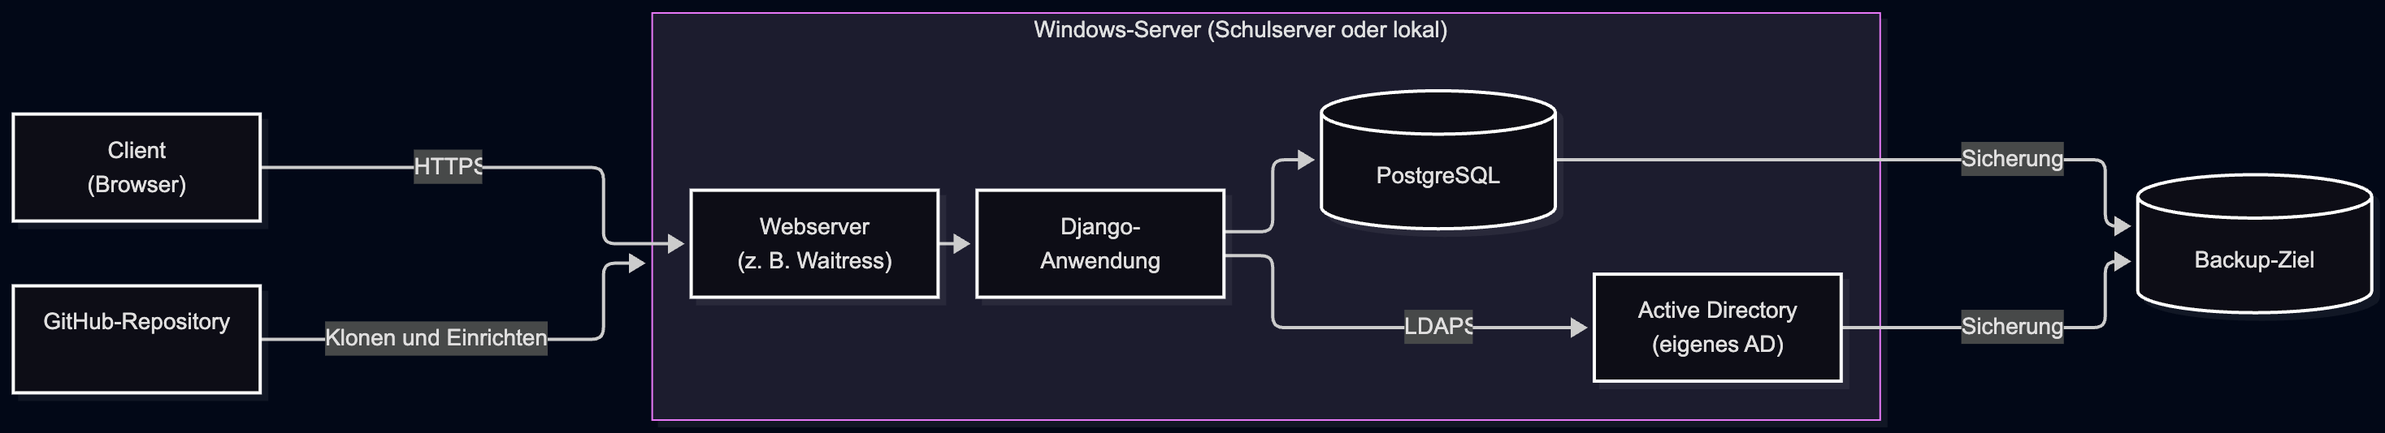
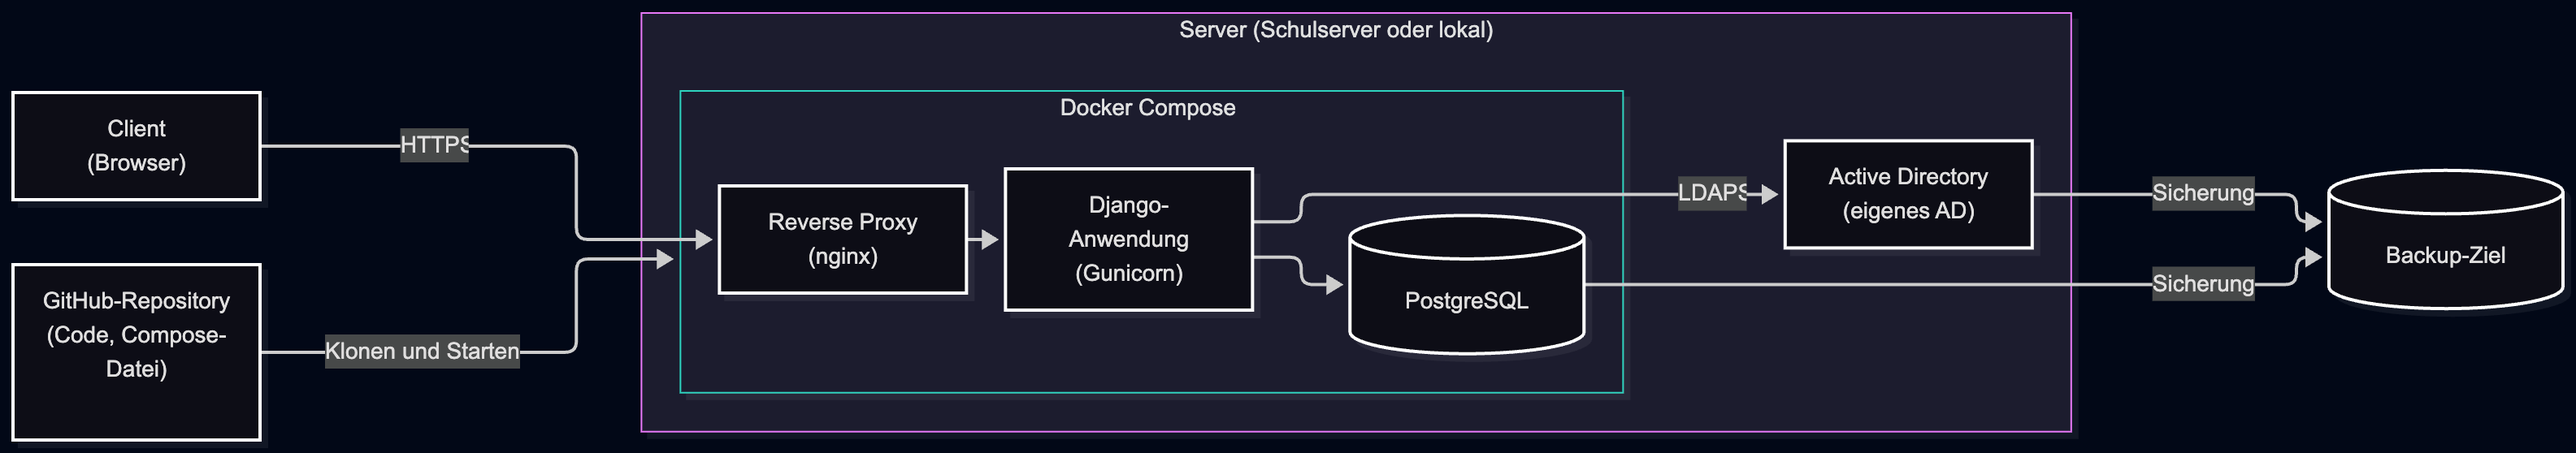
v2

diff --git a/Personen/Kumar/vorfeldanalyse.tex b/Personen/Kumar/vorfeldanalyse.tex
@@ -6,11 +6,12 @@
  
 \subsection{Anforderungen an die Infrastruktur}
  
-Die Lernplattform wird von Lernenden einer Schule benutzt. Meistens sind nur wenige Personen gleichzeitig online. Vor Schularbeiten, Tests und Abgaben sind es aber viel mehr. Die Infrastruktur muss auch diese Spitzen aushalten. Aus dem Projektantrag und den Rahmenbedingungen ergeben sich diese Anforderungen:
+Die Lernplattform wird von Lernenden einer Schule benutzt. Meistens sind nur wenige Personen gleichzeitig online. Vor Schularbeiten, Tests und Abgaben sind es aber viel mehr (Eig.)\footnote{„Eig.“ kennzeichnet in diesem Kapitel eigene Einschätzungen ohne gesonderten Quellenbeleg.}. Die Infrastruktur muss auch diese Spitzen aushalten. Aus dem Projektantrag und den Rahmenbedingungen ergeben sich diese Anforderungen:
  
 \begin{itemize}
-  \item Die Plattform läuft auf einem Windows-Server der Schule. Wenn die Schule keinen Server bereitstellen kann, läuft sie lokal auf einem eigenen Rechner.
+  \item Die Plattform läuft auf einem Server der Schule. Wenn die Schule keinen Server bereitstellen kann, läuft sie lokal auf einem eigenen Rechner.
   \item Die Serverumgebung lässt sich jederzeit gleich neu aufbauen und bei Bedarf vergrößern.
+  \item Die Struktur der Datenbank wird konzipiert und definiert, das heißt, welche Daten es gibt und wie sie zusammenhängen.
   \item Eine relationale Datenbank ist angebunden und arbeitet zuverlässig mit dem Backend zusammen.
   \item Die Anmeldung läuft zentral über ein Active Directory. Weil die Schule keinen Zugriff auf ihr eigenes Active Directory gibt, wird dafür ein eigenes eingerichtet.
   \item Lerninhalte können strukturiert importiert und exportiert werden.
@@ -21,7 +22,7 @@ Die Lernplattform wird von Lernenden einer Schule benutzt. Meistens sind nur wen
 \subsection{Abgrenzung zu Backend und Frontend}
  
 Das Gesamtprojekt besteht aus Backend, Frontend und Infrastruktur. Die Infrastruktur stellt die Umgebung bereit, in der Backend und Frontend laufen. \Luca entwickelt die Backend-Logik, den adaptiven Lernalgorithmus und die API. \Jakob entwickelt die Benutzeroberfläche. \\ \\
-Bei der Anmeldung über das Active Directory sind die Aufgaben so aufgeteilt: Die Einstellungen im Django-Backend gehören zum Backend. Die Infrastruktur liefert den Verzeichnisdienst, die Netzwerkverbindung, die Zertifikate und Testkonten. Bei der Datenbank gehören die Tabellen und Migrationen zum Backend. Der Betrieb des Datenbankservers, die Backups und die Verfügbarkeit gehören zur Infrastruktur. Die genauen Schnittstellen werden im Infrastrukturkonzept festgehalten (Meilenstein am 15.11.2026).
+Bei der Anmeldung über das Active Directory sind die Aufgaben so aufgeteilt: Die Einstellungen im Django-Backend gehören zum Backend. Die Infrastruktur liefert das Verzeichnis, die Netzwerkverbindung, die Zertifikate und Testkonten. Bei der Datenbank legt die Infrastruktur die Struktur fest, also Tabellen, Beziehungen und Regeln. Die Umsetzung im Backend, also die Django-Modelle und Migrationen, gehört zu \Luca. Der Betrieb des Datenbankservers, die Backups und die Verfügbarkeit gehören ebenfalls zur Infrastruktur. Die genauen Schnittstellen werden im Infrastrukturkonzept festgehalten (Meilenstein am 15.11.2026).
  
  
 \section{Begrifflichkeiten}
@@ -30,19 +31,18 @@ Bei der Anmeldung über das Active Directory sind die Aufgaben so aufgeteilt: Di
 \begin{tabular}{|p{4.2cm}|p{9.5cm}|}
 \hline
 \textbf{Begriff} & \textbf{Erklärung} \\ \hline
-Active Directory (AD) & Verzeichnisdienst von Microsoft, der Benutzer:innen, Gruppen und Geräte in einem Netzwerk verwaltet \\ \hline
-Domänencontroller (DC) & Windows-Server, auf dem das Active Directory läuft und der Anmeldungen prüft \\ \hline
+Active Directory (AD) & Verzeichnisdienst von Microsoft, der Benutzer:innen und Gruppen in einem Netzwerk verwaltet \\ \hline
 LDAP / LDAPS & Protokoll, mit dem man ein Verzeichnis abfragen und Anmeldungen prüfen kann. LDAPS ist die verschlüsselte Version \\ \hline
+Container & Eine Art Paket, in dem eine Anwendung mit allem läuft, was sie braucht \\ \hline
+Docker Compose & Programm, mit dem man mehrere Container gemeinsam beschreibt und mit einem Befehl startet \\ \hline
 Git / Repository & Versionsverwaltung für Dateien. Im Repository liegen der Code und die Konfigurationen, hier auf GitHub \\ \hline
-Windows-Dienst & Programm, das im Hintergrund läuft, automatisch startet und bei Fehlern neu gestartet werden kann \\ \hline
-Infrastructure as Code (IaC) & Die Einrichtung eines Servers steht in Dateien statt in Handarbeit \\ \hline
-Reverse Proxy / Load Balancer & Server vor der Anwendung, der Anfragen annimmt und auf mehrere Instanzen verteilt \\ \hline
+Reverse Proxy & Server vor der Anwendung, der Anfragen annimmt und an die Anwendung weiterleitet \\ \hline
 Horizontale / vertikale Skalierung & Mehr Instanzen starten bzw. einen stärkeren Server verwenden \\ \hline
-ACID & Eigenschaften, die Datenbanktransaktionen zuverlässig machen \\ \hline
-WAL / PITR & Protokoll der Datenbankänderungen bzw. Wiederherstellung auf einen bestimmten Zeitpunkt \\ \hline
-RPO / RTO & Wie viele Daten höchstens verloren gehen dürfen bzw. wie lange eine Wiederherstellung höchstens dauern darf \\ \hline
-Failover & Umschalten auf ein Ersatzsystem, wenn das erste ausfällt \\ \hline
-Idempotenz & Eine Aktion mehrmals auszuführen ergibt dasselbe wie sie einmal auszuführen \\ \hline
+Primärschlüssel / Fremdschlüssel & Der Primärschlüssel kennzeichnet eine Zeile in einer Tabelle eindeutig. Ein Fremdschlüssel verweist auf eine Zeile in einer anderen Tabelle \\ \hline
+ER-Diagramm & Zeichnung der Datenbank mit Tabellen (Entitäten) und ihren Beziehungen \\ \hline
+Migration & Beschreibung einer Änderung an der Datenbankstruktur, die sich in Django automatisch ausführen lässt \\ \hline
+Transaktion & Mehrere Datenbankänderungen, die entweder ganz oder gar nicht ausgeführt werden \\ \hline
+Backup & Sicherungskopie der Daten, aus der man sie wiederherstellen kann \\ \hline
 Lasttest / Stresstest & Test mit erwarteter Last bzw. mit mehr Last, als das System aushalten soll \\ \hline
 DSGVO & Datenschutz-Grundverordnung der EU \\ \hline
 \end{tabular}
@@ -50,18 +50,17 @@ DSGVO & Datenschutz-Grundverordnung der EU \\ \hline
  
 \section{Serverinfrastruktur und Datenbank}
  
-\subsection{Reproduzierbarkeit und Git-Repository}
+\subsection{Reproduzierbarkeit und Container}
  
-Reproduzierbar heißt, dass sich die ganze Serverumgebung jederzeit aus einer Beschreibung neu aufbauen lässt. Dahinter steckt die Idee „Infrastructure as Code“. Die Einstellungen werden nicht von Hand am Server gemacht, sondern stehen in Dateien, die versioniert werden. So kann man jede Änderung nachvollziehen, und der Server kann bei einem Problem einfach neu erstellt werden. \\
-Häufig werden dafür Container wie Docker verwendet. Ein Container enthält die Anwendung und alles, was sie zum Laufen braucht. In diesem Projekt wird bewusst darauf verzichtet. Die Anwendung läuft direkt auf dem Windows-Server. Ein einzelner Server braucht dadurch weniger Ressourcen, und es gibt eine Schicht weniger, die eingerichtet und verstanden werden muss. Auf Windows läuft Docker meist über eine zusätzliche virtuelle Schicht, die Speicher und Rechenleistung kostet. Auch Kubernetes ist wegen des hohen Aufwands für ein Projekt dieser Größe nicht sinnvoll. \\
-Die Reproduzierbarkeit wird stattdessen über ein Git-Repository auf GitHub erreicht. Dort liegen der Code, die Konfigurationsvorlagen, die festgelegten Paketversionen und eine Installationsanleitung. Die Anwendung kann damit beliebig oft auf einen neuen Server geklont und eingerichtet werden. Geheime Daten wie Passwörter liegen nicht im Repository, sondern in Umgebungsvariablen auf dem Server. Wichtig ist, dass der Neuaufbau getestet wird, zum Beispiel auf einem frischen System. Nur dann ist belegt, dass die Beschreibung vollständig ist.
+Reproduzierbar heißt, dass sich die ganze Serverumgebung jederzeit aus einer Beschreibung neu aufbauen lässt. Die Einstellungen werden nicht von Hand am Server gemacht, sondern stehen in Dateien, die versioniert werden. So kann man jede Änderung nachvollziehen, und der Server kann bei einem Problem einfach neu erstellt werden. \\
+Dafür werden Container mit Docker verwendet. Ein Container enthält die Anwendung und alles, was sie zum Laufen braucht. Dadurch läuft sie überall gleich. Mit Docker Compose werden mehrere Container gemeinsam beschrieben und mit einem Befehl gestartet. Bei uns sind das zum Beispiel der Reverse Proxy, die Django-Anwendung und die Datenbank. Die Beschreibung liegt zusammen mit dem Code in einem Git-Repository auf GitHub. Die Anwendung kann damit auf einem neuen Server geklont und gestartet werden. Geheime Daten wie Passwörter liegen nicht im Repository, sondern in Umgebungsvariablen. Es gibt auch größere Werkzeuge wie Kubernetes. Sie bringen aber viel Aufwand mit und sind für ein Projekt dieser Größe nicht nötig (Eig.).
  
  
-\subsection{Skalierbarkeit und Webserver}
+\subsection{Skalierbarkeit und Reverse Proxy}
  
-Skalierbar heißt, dass das System auch mit mehr Benutzer:innen gut funktioniert. Es gibt zwei Wege. Bei der vertikalen Skalierung bekommt der Server stärkere Hardware. Bei der horizontalen Skalierung laufen mehrere Instanzen der Anwendung, zum Beispiel auf weiteren Servern, auf die das Repository geklont wird. Dafür dürfen die Instanzen keine Daten bei sich selbst speichern, sie müssen zustandslos sein. Sitzungen und Dateien liegen dann in der Datenbank, in einem gemeinsamen Cache oder in einem gemeinsamen Speicher \parencite[Kap.~1 und 5]{kleppmann2017}.
-Bei mehreren Instanzen verteilt ein Reverse Proxy oder Load Balancer die Anfragen. Er kümmert sich auch um die verschlüsselte Verbindung (TLS). Für den Start genügt eine einzelne Instanz, die so gebaut ist, dass später weitere dazukommen können. Django läuft im Betrieb nicht mit dem eingebauten Testserver, sondern mit einem Produktionsserver. Gunicorn, das oft verwendet wird, läuft nicht auf Windows. Dort wird deshalb ein Server verwendet, der Windows unterstützt, zum Beispiel Waitress. Die Anwendung wird als Windows-Dienst eingerichtet, damit sie automatisch startet und bei einem Fehler neu gestartet wird. \\
-Daraus ergibt sich der Aufbau in Schichten: Browser, Webserver mit Django-Anwendung und Datenbank. Dazu kommen das eigene Active Directory und die Orte, an denen die Backups liegen (siehe Abbildung~\ref{fig:architektur}).
+Skalierbar heißt, dass das System auch mit mehr Benutzer:innen gut funktioniert. Es gibt zwei Wege. Bei der vertikalen Skalierung bekommt der Server stärkere Hardware. Bei der horizontalen Skalierung laufen mehrere Instanzen der Anwendung. Dafür dürfen die Instanzen keine Daten bei sich selbst speichern, sie müssen zustandslos sein. Sitzungen und Dateien liegen dann in der Datenbank, in einem gemeinsamen Cache oder in einem gemeinsamen Speicher \parencite[Kap.~1 und 5]{kleppmann2017}.
+Vor den Instanzen steht ein Reverse Proxy, zum Beispiel nginx. Er nimmt die Anfragen an, kümmert sich um die verschlüsselte Verbindung (TLS) und leitet sie an die Anwendung weiter. Laufen mehrere Instanzen, verteilt er die Anfragen auf sie. Django läuft im Betrieb nicht mit dem eingebauten Testserver, sondern mit einem Produktionsserver wie Gunicorn. \\
+Daraus ergibt sich der Aufbau in Schichten: Browser, Reverse Proxy, Django-Anwendung und Datenbank. Dazu kommen das eigene Active Directory und die Orte, an denen die Backups liegen (siehe Abbildung~\ref{fig:architektur}).
 \begin{figure}[htbp]
   \centering
   \includegraphics[width=\textwidth,height=0.45\textheight,keepaspectratio]{Bilder/Kumar/Architekturübersicht.png}
@@ -71,29 +70,89 @@ Daraus ergibt sich der Aufbau in Schichten: Browser, Webserver mit Django-Anwend
  
 \subsection{Relationale Datenbank}
  
-Die Plattform speichert viele Daten, die zusammenhängen: Benutzer:innen, Lerninhalte, Lernkarten, Tests, Ergebnisse und Wiederholungstermine. Dafür passt eine relationale Datenbank gut. Sie sorgt über Fremdschlüssel dafür, dass die Verbindungen zwischen den Daten stimmen. Mit Transaktionen (ACID) wird verhindert, dass ein Ergebnis nur halb gespeichert wird, wenn mitten im Vorgang ein Fehler passiert. Django kann mit mehreren relationalen Datenbanken arbeiten. PostgreSQL hat zusätzlich unter anderem einen JSON-Datentyp, Replikation und gute Möglichkeiten für Backups und läuft auch als Dienst unter Windows. \\
-Für die Infrastruktur sind drei Dinge wichtig. Erstens stehen die Zugangsdaten zur Datenbank in Umgebungsvariablen und nicht im Code. Die Anwendung soll Verbindungen wiederverwenden (Connection Pooling), damit der Datenbankserver bei vielen Anfragen nicht überlastet wird. Zweitens beschleunigen Indizes Abfragen, die oft vorkommen, zum Beispiel die Zuordnung von Benutzer:in zu Lernkarte. Drittens macht Replikation das System ausfallsicherer, weil ein zweiter Server (Standby) bereitsteht. Dafür braucht man aber einen Plan, wie auf diesen umgeschaltet wird.
+Die Plattform speichert viele Daten, die zusammenhängen: Benutzer:innen, Lerninhalte, Lernkarten, Tests, Ergebnisse und Wiederholungstermine. Dafür passt eine relationale Datenbank gut. Sie sorgt über Fremdschlüssel dafür, dass die Verbindungen zwischen den Daten stimmen. Mit Transaktionen wird verhindert, dass ein Ergebnis nur halb gespeichert wird, wenn mitten im Vorgang ein Fehler passiert. Django kann mit mehreren relationalen Datenbanken arbeiten. Für das Projekt ist PostgreSQL vorgesehen, weil es gut mit Django zusammenarbeitet und gute Möglichkeiten für Backups bietet. \\
+Die Datenbank läuft in einem eigenen Container. Ihre Daten werden außerhalb des Containers gespeichert, damit sie beim Neustart nicht verloren gehen. Die Zugangsdaten stehen in Umgebungsvariablen und nicht im Code. Außerdem ist die Datenbank nur für die Anwendung erreichbar und nicht von außen.
+ 
+\section{Datenbankstruktur}
+ 
+\subsection{Aufgabe und Vorgehen}
+ 
+Neben der Serverinfrastruktur konzipiert und definiert \Jai die Struktur der Datenbank. Gemeint ist, welche Daten gespeichert werden, in welche Tabellen sie aufgeteilt sind und wie die Tabellen zusammenhängen. Die Umsetzung im Backend, also die Django-Modelle und Migrationen, bleibt bei \Luca. Damit beide Seiten dasselbe meinen, wird die Struktur schriftlich festgehalten. Das Vorgehen ist so geplant:
+ 
+\begin{enumerate}
+  \item Aus den Anforderungen werden die Daten gesammelt, die gespeichert werden müssen.
+  \item Die Daten werden in Entitäten (spätere Tabellen) gegliedert, und es wird festgelegt, wie sie zusammenhängen.
+  \item Für jede Tabelle werden Schlüssel, Pflichtfelder und Regeln festgelegt, zum Beispiel was beim Löschen passiert.
+  \item Das Ergebnis wird als ER-Diagramm und als Tabellenbeschreibung dokumentiert.
+  \item Die Struktur wird mit \Luca und \Jakob abgestimmt und nach der Umsetzung der ersten Modelle mit dem echten Code verglichen.
+\end{enumerate}
+ 
+Als Ausgangspunkt dient der Entwurf der Entitäten in der Vorfeldanalyse von \Luca. Dieser wird hier weiterentwickelt.
+ 
+\subsection{Grundbegriffe}
+ 
+Eine relationale Datenbank speichert Daten in Tabellen. Jede Zeile ist ein Datensatz und wird durch einen Primärschlüssel eindeutig gekennzeichnet. Beziehungen zwischen Tabellen werden mit Fremdschlüsseln ausgedrückt. Gehören viele Datensätze zu genau einem anderen, zum Beispiel viele Lernkarten zu einem Lerninhalt, spricht man von einer 1-zu-n-Beziehung. Können viele Datensätze mit vielen anderen verbunden sein, zum Beispiel viele Benutzer:innen mit vielen Lernkarten, braucht man eine Zwischentabelle. Django bildet ein Modell, also eine Python-Klasse, in der Regel auf eine Tabelle ab, und Beziehungen werden mit einem \texttt{ForeignKey} ausgedrückt \parencite{djangoModels}. Eine einfache Grundregel beim Entwurf ist, jede Information nur an einer Stelle zu speichern. Dann kann sie sich nicht widersprechen (Eig.).
+ 
+\subsection{Entwurf der Datenbankstruktur}
+ 
+Aus den Anforderungen ergeben sich die Tabellen in der folgenden Übersicht. Die Aufteilung ist ein Entwurf, und einzelne Felder können sich bei der Umsetzung noch ändern.
+ 
+\begin{center}
+\small
+\begin{tabular}{|p{3.0cm}|p{5.6cm}|p{5.0cm}|}
+\hline
+\textbf{Tabelle} & \textbf{Inhalt} & \textbf{Beziehungen} \\ \hline
+Benutzer & Person, die die Plattform nutzt, mit einer Rolle (Lernende, Lehrkraft, Administration) & Hat Testversuche, Lernergebnisse und Wiederholungsstatus \\ \hline
+Lerninhalt & Thema des Lernstoffs, das Lernkarten und Tests bündelt & Hat mehrere Lernkarten und Tests \\ \hline
+Lernkarte & Karte mit Frage und Antwort & Gehört zu einem Lerninhalt \\ \hline
+Test & Zusammenstellung von Testaufgaben zu einem Lerninhalt & Gehört zu einem Lerninhalt, hat mehrere Testaufgaben \\ \hline
+Testaufgabe & Einzelne Frage eines Tests mit der Lösung & Gehört zu einem Test \\ \hline
+Testversuch & Ein Durchlauf eines Tests durch eine Person mit Zeitpunkt und Gesamtergebnis & Gehört zu einem Benutzer und einem Test \\ \hline
+Lernergebnis & Bewertung einer einzelnen Antwort mit Zeitpunkt & Gehört zu einem Benutzer und zu einer Lernkarte oder Testaufgabe \\ \hline
+Wiederholungs-\newline status & Aktueller Planungszustand einer Lernkarte für eine Person, zum Beispiel der nächste Wiederholungstermin & Verbindet Benutzer und Lernkarte (Zwischentabelle) \\ \hline
+\end{tabular}
+\end{center}
+ 
+Die Beziehungen sind in Abbildung~\ref{fig:er} als ER-Diagramm dargestellt. Der Lernfortschritt wird nicht als eigene Tabelle gespeichert, sondern aus den Lernergebnissen und dem Wiederholungsstatus berechnet. Dadurch kann er den gespeicherten Daten nicht widersprechen (Eig.). Passwörter von Benutzer:innen aus dem Active Directory werden nicht in der Datenbank gespeichert, denn sie liegen im Verzeichnis.
+ 
+\begin{figure}[htbp]
+  \centering
+  \includegraphics[width=\textwidth,height=0.45\textheight,keepaspectratio]{Bilder/Kumar/ER_Diagramm.png}
+  \caption{Entwurf der Datenbankstruktur als ER-Diagramm (eigene Darstellung)}
+  \label{fig:er}
+\end{figure}
+ 
+\subsection{Regeln und Leistung}
+ 
+Zusätzlich zu den Tabellen werden Regeln festgelegt, die die Datenbank selbst überwacht:
+ 
+\begin{itemize}
+  \item \textbf{Eindeutigkeit:} Pro Benutzer:in und Lernkarte gibt es höchstens einen Wiederholungsstatus. Die Datenbank stellt das sicher.
+  \item \textbf{Löschverhalten:} Wird ein Benutzer gelöscht, werden die dazugehörigen Lernergebnisse, Testversuche und Wiederholungsstatus mitgelöscht oder anonymisiert. Welche Variante gewählt wird, hängt vom Datenschutz ab und ist noch offen.
+  \item \textbf{Zusammengehörige Änderungen:} Ein Lernergebnis und der neue Wiederholungsstatus werden in einer Transaktion gespeichert, damit nie nur eines von beiden gespeichert wird \parencite{djangoTransactions}.
+  \item \textbf{Geschwindigkeit:} Die häufigste Abfrage ist vermutlich die nach den fälligen Lernkarten einer Person. Dafür kann ein Index sinnvoll sein, der solche Abfragen beschleunigt \parencite[Kap.~3]{kleppmann2017}. Ob er nötig ist, zeigen die Performancetests.
+  \item \textbf{Änderungen:} Änderungen an der Struktur laufen über Migrationen, die zusammen mit dem Code im Repository liegen. So lässt sich jede Änderung nachvollziehen (Eig.).
+\end{itemize}
  
 \section{Active-Directory-Anbindung}
  
 \subsection{Verzeichnisdienste und Protokolle}
  
 In Schulnetzwerken verwaltet normalerweise ein Active Directory (AD) die Konten, Gruppen und Passwörter. Wenn eine Lernplattform ein solches Verzeichnis benutzt, müssen sich Lernende nicht neu registrieren und kein zusätzliches Passwort merken. Konten müssen nur an einer Stelle gepflegt werden. Wird ein Konto deaktiviert, zum Beispiel nach dem Schulaustritt, gilt das auch für die Plattform. \\
-Für dieses Projekt bekommt das Team keinen Zugriff auf das AD der Schule. Deshalb wird ein eigenes Active Directory eingerichtet. Es läuft auf Windows Server als Rolle „Active Directory Domain Services“, vermutlich auf demselben Server wie die Anwendung. Der Server übernimmt damit auch die Aufgabe eines Domänencontrollers. Für die Anwendung ändert sich dadurch nichts Grundsätzliches, denn die Anmeldung funktioniert wie beim Schul-AD. Falls später doch ein Zugriff auf das Schul-AD möglich wäre, müssten im Wesentlichen nur Servername, Suchbasis und Zertifikat angepasst werden. Das eigene AD enthält Testkonten für Lernende und Lehrende. \\
-Das AD arbeitet mit dem Protokoll LDAP und unterstützt auch Kerberos. Bei Webanwendungen wird meistens LDAP verwendet. Die Anwendung nimmt Benutzername und Passwort entgegen und prüft sie über einen „Bind“ beim Verzeichnis (siehe Abbildung~\ref{fig:ad}). Dabei sind diese Punkte wichtig:
+Für dieses Projekt bekommt das Team keinen Zugriff auf das AD der Schule. Deshalb wird ein eigenes Active Directory eingerichtet. Es läuft auf dem Server neben der Anwendung und enthält Testkonten für Lernende und Lehrende. Für die Anwendung ändert sich dadurch nichts Grundsätzliches, denn die Anmeldung funktioniert wie beim Schul-AD. Falls später doch ein Zugriff auf das Schul-AD möglich wäre, müssten im Wesentlichen nur die Einstellungen angepasst werden. \\
+Die Anwendung spricht mit dem AD über das Protokoll LDAP. Sie nimmt Benutzername und Passwort entgegen und prüft sie beim Verzeichnis (siehe Abbildung~\ref{fig:ad}). Dabei sind diese Punkte wichtig:
  
 \begin{itemize}
-  \item \textbf{Verschlüsselung:} LDAP ohne Verschlüsselung (Port 389) ist für Passwörter nicht geeignet. Es braucht LDAPS (Port 636) oder LDAP mit StartTLS und eine Prüfung des Zertifikats.
+  \item \textbf{Verschlüsselung:} Passwörter dürfen nicht unverschlüsselt übertragen werden. Deshalb wird LDAPS verwendet.
   \item \textbf{Service-Account:} Ein technisches Konto mit möglichst wenigen Rechten sucht die Benutzer:innen im Verzeichnis.
-  \item \textbf{Zuordnung der Benutzer:innen:} Der Anmeldename wird über Attribute wie \texttt{sAMAccountName} oder \texttt{userPrincipalName} gefunden und einem Django-Benutzerkonto zugeordnet.
   \item \textbf{Gruppen und Rollen:} AD-Gruppen, zum Beispiel für Lernende und Lehrende, können Rollen in der Plattform bekommen.
-  \item \textbf{Ausfall:} Wenn der Domänencontroller nicht erreichbar ist, soll nicht die ganze Plattform stillstehen. Da das AD auf demselben Server wie die Anwendung läuft, würde ein Serverausfall beides treffen. Deshalb braucht es einen Notfallzugang für Administrierende. Zusätzliche Domänencontroller wären eine Erweiterung.
+  \item \textbf{Ausfall:} Wenn das AD nicht erreichbar ist, soll nicht die ganze Plattform stillstehen. Deshalb braucht es einen Notfallzugang für Administrierende.
 \end{itemize}
  
  
 \subsection{Anbindung an Django}
  
-Für Django gibt es das Paket \emph{django-auth-ldap}, das die Anmeldung über LDAP übernimmt. Laut Dokumentation prüft es Benutzer:innen gegen einen LDAP-Dienst und kann Benutzer, Gruppen und Berechtigungen verwalten. Für eine einfache Einrichtung reicht schon eine einzelne Vorlage für den Distinguished Name \parencite{django-auth-ldap}. Die Einstellungen im Backend macht \Luca. Das eigene Verzeichnis, die Netzwerkverbindung und die Zertifikate stellt die Infrastruktur bereit.
+Für Django gibt es das Paket \emph{django-auth-ldap}, das die Anmeldung über LDAP übernimmt. Laut Dokumentation prüft es Benutzer:innen gegen einen LDAP-Dienst und kann Benutzer, Gruppen und Berechtigungen verwalten \parencite{django-auth-ldap}. Die Einstellungen im Backend macht \Luca. Das eigene Verzeichnis, die Netzwerkverbindung und die Zertifikate stellt die Infrastruktur bereit.
  
 \begin{figure}[htbp]
   \centering
@@ -108,9 +167,9 @@ Eine Lernplattform braucht Inhalte. Wenn Lehrkräfte jede Lernkarte einzeln eing
  
 \begin{itemize}
   \item \textbf{Format:} CSV ist einfach, kann aber verschachtelte Inhalte wie Themen, Lernkarten, Antworten und Medien schlecht darstellen. JSON oder ein Paket aus JSON und Mediendateien eignet sich besser.
-  \item \textbf{Schema und Version:} Ein beschriebenes Schema mit Versionsnummer verhindert, dass Importe nach Änderungen am Datenmodell unbemerkt falsch laufen.
-  \item \textbf{Prüfung:} Importierte Dateien sind nicht vertrauenswürdig. Sie werden auf Aufbau, Größe, Dateitypen und schädliche Inhalte geprüft.
-  \item \textbf{Keine Duplikate:} Wird dieselbe Datei zweimal importiert, sollen keine doppelten Inhalte entstehen. Dazu braucht jeder Inhalt eine eindeutige Kennung.
+  \item \textbf{Version:} Eine Versionsnummer im Format verhindert, dass Importe nach Änderungen am Datenmodell unbemerkt falsch laufen.
+  \item \textbf{Prüfung:} Importierte Dateien sind nicht vertrauenswürdig. Sie werden auf Aufbau, Größe und Dateitypen geprüft.
+  \item \textbf{Keine Duplikate:} Wird dieselbe Datei zweimal importiert, sollen keine doppelten Inhalte entstehen.
   \item \textbf{Fehler:} Ein Import soll ganz oder gar nicht durchgehen (Transaktion). Bei einem Fehler gibt es eine verständliche Liste.
   \item \textbf{Umfang des Exports:} Inhalte und Lernstände werden getrennt betrachtet, weil Lernstände persönliche Daten sind.
 \end{itemize}
@@ -127,18 +186,15 @@ Eine Lernplattform braucht Inhalte. Wenn Lehrkräfte jede Lernkarte einzeln eing
  
 \subsection{Sicherheit und Datenschutz}
  
-Die Plattform speichert persönliche Daten von Lernenden, zum Beispiel Lernergebnisse. Deshalb gilt die Datenschutz-Grundverordnung (DSGVO). Wichtig sind auch Datenminimierung und „Privacy by Design“. Für die technische Absicherung werden die OWASP Top 10 verwendet. Das ist eine Liste der häufigsten Risiken bei Webanwendungen, zum Beispiel falsche Zugriffsrechte oder Fehler in der Konfiguration \parencite{owasp-top-ten}. Auf der Ebene der Infrastruktur gehören dazu: Die Datenbank ist nur lokal beziehungsweise aus dem internen Netz erreichbar, alle Verbindungen sind mit TLS verschlüsselt, Windows und die Software werden regelmäßig aktualisiert, Passwörter und Schlüssel liegen nicht im Code, und wichtige Ereignisse werden protokolliert. Da das Active Directory auf demselben Server läuft wie die Anwendung, muss der Server besonders gut abgesichert sein. Wird er angegriffen, wären beide betroffen.
+Die Plattform speichert persönliche Daten von Lernenden, zum Beispiel Lernergebnisse. Deshalb gilt die Datenschutz-Grundverordnung (DSGVO). Für die technische Absicherung werden die OWASP Top 10 verwendet. Das ist eine Liste der häufigsten Risiken bei Webanwendungen, zum Beispiel falsche Zugriffsrechte oder Fehler in der Konfiguration \parencite{owasp-top-ten}. Auf der Ebene der Infrastruktur gehören dazu: Die Datenbank ist nur für die Anwendung erreichbar, alle Verbindungen sind mit TLS verschlüsselt, Updates werden regelmäßig eingespielt, Passwörter liegen nicht im Code, und wichtige Ereignisse werden protokolliert. Da das Active Directory auf demselben Server läuft wie die Anwendung, muss der Server besonders gut abgesichert sein.
  
 \subsection{Datensicherung und Wiederherstellung}
  
-Für Backups gibt es zwei wichtige Kennzahlen. Das Recovery Point Objective (RPO) sagt, wie viele Daten höchstens verloren gehen dürfen. Das Recovery Time Objective (RTO) sagt, wie lange eine Wiederherstellung höchstens dauern darf. \\
-Laut der PostgreSQL-Dokumentation gibt es drei verschiedene Arten, die Datenbank zu sichern: einen SQL-Dump, ein Backup auf Dateisystemebene und die kontinuierliche Archivierung \parencite{postgres-backup-restore}. Bei der kontinuierlichen Archivierung wird eine Basissicherung mit den Write-Ahead-Log-Dateien kombiniert. Damit kann die Datenbank auf jeden beliebigen Zeitpunkt seit der Basissicherung zurückgesetzt werden (Point-in-Time-Recovery) \parencite{postgres-pitr}. Unter Windows lassen sich Sicherungen automatisch über die Aufgabenplanung zeitgesteuert ausführen. Zusätzlich gilt die 3-2-1-Regel: drei Kopien auf zwei verschiedenen Speichermedien, eine davon an einem anderen Ort. Auch das Active Directory muss gesichert werden, damit die Konten bei einem Serverausfall wiederhergestellt werden können. Backups müssen außerdem regelmäßig durch eine Wiederherstellung getestet werden. Ein Backup, das nie getestet wurde, ist keine sichere Absicherung \parencite[Kap.~26]{beyer2016sre}.
- 
- 
+Laut der PostgreSQL-Dokumentation gibt es drei verschiedene Arten, die Datenbank zu sichern: einen SQL-Dump, ein Backup auf Dateisystemebene und die kontinuierliche Archivierung \parencite{postgres-backup-restore}. Die kontinuierliche Archivierung ermöglicht es, die Datenbank auf einen beliebigen früheren Zeitpunkt zurückzusetzen \parencite{postgres-pitr}. Die Sicherungen laufen automatisch und regelmäßig. Zusätzlich gilt die 3-2-1-Regel: drei Kopien auf zwei verschiedenen Speichermedien, eine davon an einem anderen Ort. Auch das Active Directory wird gesichert, damit die Konten bei einem Serverausfall wiederhergestellt werden können. Backups müssen außerdem regelmäßig durch eine Wiederherstellung getestet werden. Ein Backup, das nie getestet wurde, ist keine sichere Absicherung \parencite[Kap.~26]{beyer2016sre}.
  
 \subsection{Ausfallsicherheit}
  
-Ausfallsicherheit entsteht, wenn wichtige Teile doppelt vorhanden sind und Fehler automatisch erkannt werden. Dazu gehören mehrere Anwendungsinstanzen hinter einem Load Balancer, ein automatischer Neustart der Windows-Dienste bei Fehlern und eine Datenbank mit Standby. Jede zusätzliche Absicherung macht das System aber komplizierter und aufwendiger. Deshalb muss sie zum tatsächlichen Bedarf einer Schulplattform passen. Auf einem einzelnen Server ist der Server selbst die größte Schwachstelle. Backups und eine dokumentierte Wiederherstellung sind deshalb besonders wichtig.
+Ausfallsicherheit entsteht, wenn wichtige Teile doppelt vorhanden sind und Fehler automatisch erkannt werden. Mit Docker können Container bei einem Fehler automatisch neu gestartet werden. Mehrere Anwendungsinstanzen hinter einem Reverse Proxy wären eine Erweiterung. Jede zusätzliche Absicherung macht das System aber komplizierter und aufwendiger. Deshalb muss sie zum tatsächlichen Bedarf einer Schulplattform passen (Eig.). Auf einem einzelnen Server ist der Server selbst die größte Schwachstelle. Backups und eine dokumentierte Wiederherstellung sind deshalb besonders wichtig.
  
 \section{Teststrategie}
  
@@ -149,7 +205,7 @@ Performancetests messen Antwortzeit und Durchsatz bei normaler Last. Lasttests s
  
 \subsection{Messgrößen}
  
-Tests sind nur aussagekräftig, wenn vorher festgelegt wird, was gemessen wird. Dafür sind geplant: das 95.\ Perzentil der Antwortzeit, die Fehlerrate, die Anfragen pro Sekunde und die Auslastung von CPU, Speicher und Datenbank. Da Anwendung, Datenbank und Active Directory auf demselben Server laufen, wird auch gemessen, wie sich die Dienste gegenseitig beeinflussen. Die Ergebnisse werden dokumentiert und ausgewertet.
+Tests sind nur aussagekräftig, wenn vorher festgelegt wird, was gemessen wird. Dafür sind geplant: die Antwortzeit, die Fehlerrate, die Anfragen pro Sekunde und die Auslastung von CPU, Speicher und Datenbank. Die Ergebnisse werden dokumentiert und ausgewertet.
  
 \section{Konkurrenzanalyse}
  
@@ -177,7 +233,7 @@ Auf der ersten Ebene, also mit ähnlichem Zweck und Einsatz, wurde Moodle gewäh
   \item Viel Feintuning: Im Betrieb sind manuelle Anpassungen nötig, zum Beispiel bei den Apache-Einstellungen. Bei sehr großen Systemen mit Lastverteilung wird die Leistung von Dateispeicher und Cache wichtig \parencite{moodle-performance}.
 \end{enumerate}
  
-\textbf{Chancen.} Eine schlankere Plattform kann den Betrieb einfacher machen, indem die AD-Einstellungen fertig dokumentiert sind und alles versioniert im Repository bereitgestellt wird.
+\textbf{Chancen.} Eine schlankere Plattform kann den Betrieb einfacher machen, indem die AD-Einstellungen fertig dokumentiert sind und alles als Container versioniert im Repository bereitgestellt wird.
  
 \subsection{Anki}
  
@@ -236,31 +292,34 @@ Als Vorbild für die AD-Anbindung in einer Django-Anwendung dient Review Board. 
 Aus der Vorfeldanalyse, der Aufgabenstellung und der Konkurrenzanalyse ergeben sich diese Entscheidungen:
  
 \begin{description}
-  \item[DE-1 Windows-Server ohne Container.] Die Plattform läuft direkt auf einem Windows-Server der Schule. Steht kein Schulserver zur Verfügung, läuft sie lokal. Der Code, die Konfigurationsvorlagen, die festgelegten Paketversionen und die Installationsanleitung liegen in einem GitHub-Repository, die Zugangsdaten in Umgebungsvariablen. Die Entscheidung fiel gegen Docker, weil ein einzelner Server ohne Container weniger Ressourcen braucht und eine Schicht weniger eingerichtet werden muss. Auf Kubernetes wird verzichtet, weil der Aufwand für dieses Projekt zu groß wäre. Dass sich die Umgebung neu aufbauen lässt, wird durch einen Test auf einem frischen System nachgewiesen.
-  \item[DE-2 Zustandslose Anwendung.] Die Anwendung ist so gebaut, dass bei Bedarf weitere Instanzen auf weiteren Servern laufen können, ohne Sitzungen oder Dateien bei sich zu speichern. Für den Anfang läuft eine Instanz als Windows-Dienst mit einem Windows-tauglichen Produktionsserver (zum Beispiel Waitress). Das ist dem Skalierungsmodell von Moodle nachempfunden.
-  \item[DE-3 PostgreSQL.] Die Datenbank läuft als eigener Dienst auf dem Server mit dauerhaftem Speicher und ist nur lokal beziehungsweise aus dem internen Netz erreichbar. Connection Pooling und passende Indizes sorgen für Geschwindigkeit. Ausschlaggebend waren die sichere Verarbeitung von Transaktionen, die Unterstützung durch Django und die guten Backup-Möglichkeiten.
-  \item[DE-4 Eigenes Active Directory mit LDAPS.] Weil die Schule keinen Zugriff auf ihr Active Directory gibt, wird ein eigenes AD auf Windows Server eingerichtet, voraussichtlich auf demselben Server wie die Anwendung. Die Anmeldung läuft verschlüsselt gegen dieses AD, mit einem Service-Account mit möglichst wenigen Rechten. AD-Gruppen werden Rollen zugeordnet, und Benutzer:innen werden beim ersten Login lokal angelegt, nach dem Vorbild von Review Board. Ein lokaler Administrationszugang bleibt als Notfallweg. Das eigene AD enthält Testkonten und dient gleichzeitig als Test-Verzeichnis für Entwicklung und Tests.
-  \item[DE-5 Offenes Austauschformat.] Lerninhalte werden als JSON-Paket mit Versionsnummer und Medienordner ausgetauscht. Der Import fügt nur hinzu, erzeugt keine Duplikate, läuft als Transaktion, prüft die Dateien und zeigt vorher eine Vorschau mit Fehlerliste. Exportiert werden standardmäßig nur Inhalte und keine persönlichen Lernstände. Die Entscheidung stützt sich auf die Stärken von Anki und die Schwächen von Quizlet.
-  \item[DE-6 Mehrstufiges Backup.] Geplant sind tägliche Sicherungen über die Windows-Aufgabenplanung, dazu laufende WAL-Archivierung für die Wiederherstellung auf einen Zeitpunkt, Sicherung des Active Directory, Aufbewahrung nach der 3-2-1-Regel, festgelegte RPO- und RTO-Ziele und regelmäßige, protokollierte Wiederherstellungstests.
-  \item[DE-7 Gestaffelte Tests.] Lasttests mit Locust mit realistischen Szenarien, festgelegte Messgrößen, ein Stabilitätstest über mehrere Stunden und eine Sicherheitsprüfung nach den OWASP Top 10. Zusätzlich wird der Neuaufbau aus dem Repository getestet. Die Ergebnisse werden dokumentiert und fließen in Verbesserungen ein.
+  \item[DE-1 Docker Compose.] Die Plattform läuft in Containern, die mit Docker Compose gemeinsam beschrieben und gestartet werden (Reverse Proxy, Django mit Gunicorn, Datenbank). Die Beschreibung liegt zusammen mit dem Code in einem GitHub-Repository, die Zugangsdaten in Umgebungsvariablen. Die Entscheidung fiel auf Docker, weil sich die Umgebung damit jederzeit auf einem neuen Server aufbauen lässt und der Einrichtungsaufwand kleiner wird, der bei Moodle auffällt. Auf Kubernetes wird verzichtet, weil der Aufwand für dieses Projekt zu groß wäre.
+  \item[DE-2 Zustandslose Anwendung.] Die Anwendung ist so gebaut, dass bei Bedarf weitere Instanzen laufen können, ohne Sitzungen oder Dateien bei sich zu speichern. Für den Anfang läuft eine Instanz. Das ist dem Skalierungsmodell von Moodle nachempfunden.
+  \item[DE-3 PostgreSQL.] Die Datenbank läuft in einem eigenen Container, speichert ihre Daten außerhalb des Containers und ist nur für die Anwendung erreichbar. Ausschlaggebend waren die sichere Verarbeitung von Transaktionen, die Unterstützung durch Django und die guten Backup-Möglichkeiten.
+  \item[DE-4 Datenbankstruktur.] \Jai definiert die Struktur der Datenbank als ER-Diagramm mit Tabellenbeschreibung, ausgehend vom Entwurf von \Luca. Der Lernfortschritt wird berechnet und nicht gespeichert. Die Datenbank sichert Eindeutigkeit und Beziehungen über Schlüssel ab, zusammengehörige Änderungen laufen in einer Transaktion, und für die häufigste Abfrage (fällige Lernkarten) ist bei Bedarf ein Index vorgesehen. Änderungen laufen über Migrationen im Repository. Die Umsetzung im Backend bleibt bei \Luca.
+  \item[DE-5 Eigenes Active Directory mit LDAPS.] Weil die Schule keinen Zugriff auf ihr Active Directory gibt, wird ein eigenes AD eingerichtet, voraussichtlich auf demselben Server wie die Anwendung. Die Anmeldung läuft verschlüsselt gegen dieses AD, mit einem Service-Account mit möglichst wenigen Rechten. AD-Gruppen werden Rollen zugeordnet, und Benutzer:innen werden beim ersten Login lokal angelegt, nach dem Vorbild von Review Board. Ein lokaler Administrationszugang bleibt als Notfallweg. Das eigene AD enthält Testkonten und dient gleichzeitig als Test-Verzeichnis für Entwicklung und Tests.
+  \item[DE-6 Offenes Austauschformat.] Lerninhalte werden als JSON-Paket mit Versionsnummer und Medienordner ausgetauscht. Der Import fügt nur hinzu, erzeugt keine Duplikate, läuft als Transaktion und prüft die Dateien. Exportiert werden standardmäßig nur Inhalte und keine persönlichen Lernstände. Die Entscheidung stützt sich auf die Stärken von Anki und die Schwächen von Quizlet.
+  \item[DE-7 Backup-Konzept.] Geplant sind regelmäßige automatische Sicherungen der Datenbank und des Active Directory, die Aufbewahrung nach der 3-2-1-Regel und regelmäßige, protokollierte Wiederherstellungstests.
+  \item[DE-8 Gestaffelte Tests.] Lasttests mit Locust mit realistischen Szenarien, festgelegte Messgrößen, ein Stabilitätstest über mehrere Stunden und eine Sicherheitsprüfung nach den OWASP Top 10. Zusätzlich wird der Neuaufbau aus dem Repository getestet. Die Ergebnisse werden dokumentiert und fließen in Verbesserungen ein.
 \end{description}
  
 \subsection{Risiken und offene Fragen}
  
 \begin{itemize}
-  \item \textbf{Schulserver:} Es ist noch offen, ob die Schule einen Server bereitstellt. Wenn nicht, läuft die Plattform lokal. Das Active Directory ist eine Rolle von Windows Server. Dann muss also lokal ein Windows Server eingerichtet werden, zum Beispiel in einer virtuellen Maschine.
-  \item \textbf{Alles auf einem Server:} Anwendung, Datenbank und Active Directory auf demselben Server sind einfacher einzurichten, aber nicht die empfohlene Praxis. Ein Ausfall oder ein Angriff betrifft alles zugleich. Eine Trennung auf mehrere Server oder virtuelle Maschinen wäre sicherer.
+  \item \textbf{Schulserver:} Es ist noch offen, ob die Schule einen Server bereitstellt. Wenn nicht, läuft die Plattform lokal.
+  \item \textbf{Alles auf einem Server:} Anwendung, Datenbank und Active Directory auf demselben Server sind einfacher einzurichten, aber nicht die empfohlene Praxis. Ein Ausfall oder ein Angriff betrifft alles zugleich.
   \item \textbf{Eigenes statt Schul-AD:} Das Projektziel einer zentralen Anmeldung über das Schulnetzwerk wird durch ein eigenes AD ersetzt. Dieses enthält nur Testkonten und ist nicht mit den echten Schulkonten verbunden.
-  \item \textbf{Reproduzierbarkeit ohne Container:} Ohne Docker hängt der Neuaufbau davon ab, dass Anleitung und Versionen im Repository vollständig sind. Das muss getestet werden, sonst gibt es Unterschiede zwischen Servern.
+  \item \textbf{Einarbeitung in Docker:} Docker und Docker Compose müssen im Team erst eingerichtet und verstanden werden. Dafür muss Zeit eingeplant werden.
+  \item \textbf{Offene Punkte der Datenbankstruktur:} Offen ist, ob auch Testaufgaben einen Wiederholungsstatus bekommen, wie das Lernergebnis umgesetzt wird (ein Modell oder zwei) und ob Daten der Gamification-Elemente gespeichert werden. Ebenso offen ist das Löschverhalten bei Benutzer:innen. Das wird mit \Luca und \Jakob geklärt.
+  \item \textbf{Änderungen an der Struktur:} Backend und Frontend hängen von der Datenbankstruktur ab. Änderungen müssen deshalb früh im Team abgestimmt werden.
   \item \textbf{Anzahl der Benutzer:innen:} Wie viele Personen gleichzeitig online sein werden, ist nicht bekannt und muss für die Lasttests angenommen werden.
-  \item \textbf{Umfang der Ausfallsicherheit:} Wie viel Absicherung im Projekt sinnvoll und machbar ist, wird im Infrastrukturkonzept festgelegt.
-  \item \textbf{Abstimmung im Team:} Die Aufteilung beim Backend (LDAP-Einstellungen, Import- und Export-Logik) und beim Frontend (Oberfläche für Import und Export) wird mit \Luca und \Jakob genauer geklärt.
+  \item \textbf{Abstimmung im Team:} Die Aufteilung beim Backend (LDAP-Einstellungen, Umsetzung der Datenbankstruktur, Import- und Export-Logik) und beim Frontend (Oberfläche für Import und Export) wird mit \Luca und \Jakob genauer geklärt.
 \end{itemize}
  
 \section*{Abbildungsverzeichnis (\Jai)}
  
 \begin{itemize}
   \item Abb.~\ref{fig:architektur}: Architekturübersicht der Infrastruktur (eigene Darstellung)
+  \item Abb.~\ref{fig:er}: Entwurf der Datenbankstruktur als ER-Diagramm (eigene Darstellung)
   \item Abb.~\ref{fig:ad}: Ablauf der Authentifizierung gegen das Active Directory (eigene Darstellung)
   \item Abb.~\ref{fig:importexport}: Ablauf von Import und Export (eigene Darstellung)
-\end{itemize}a
+\end{itemize}
